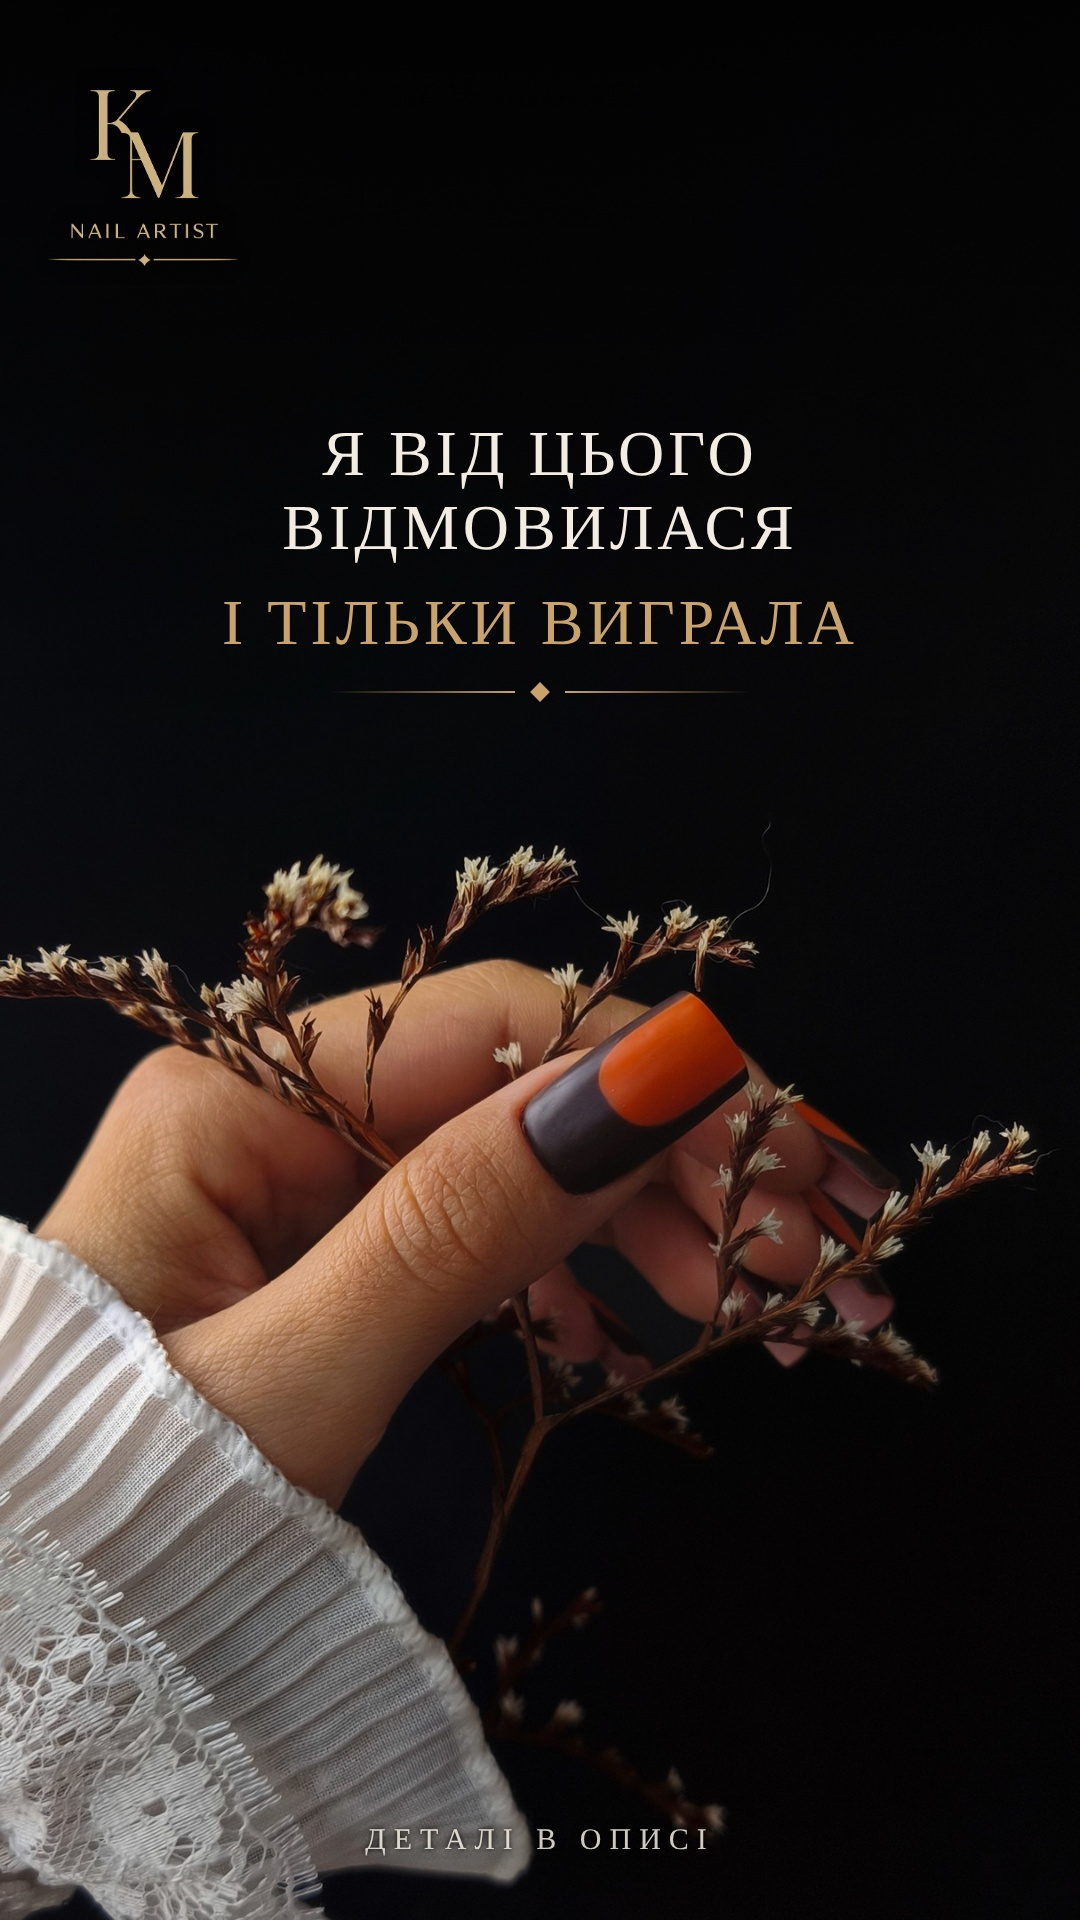
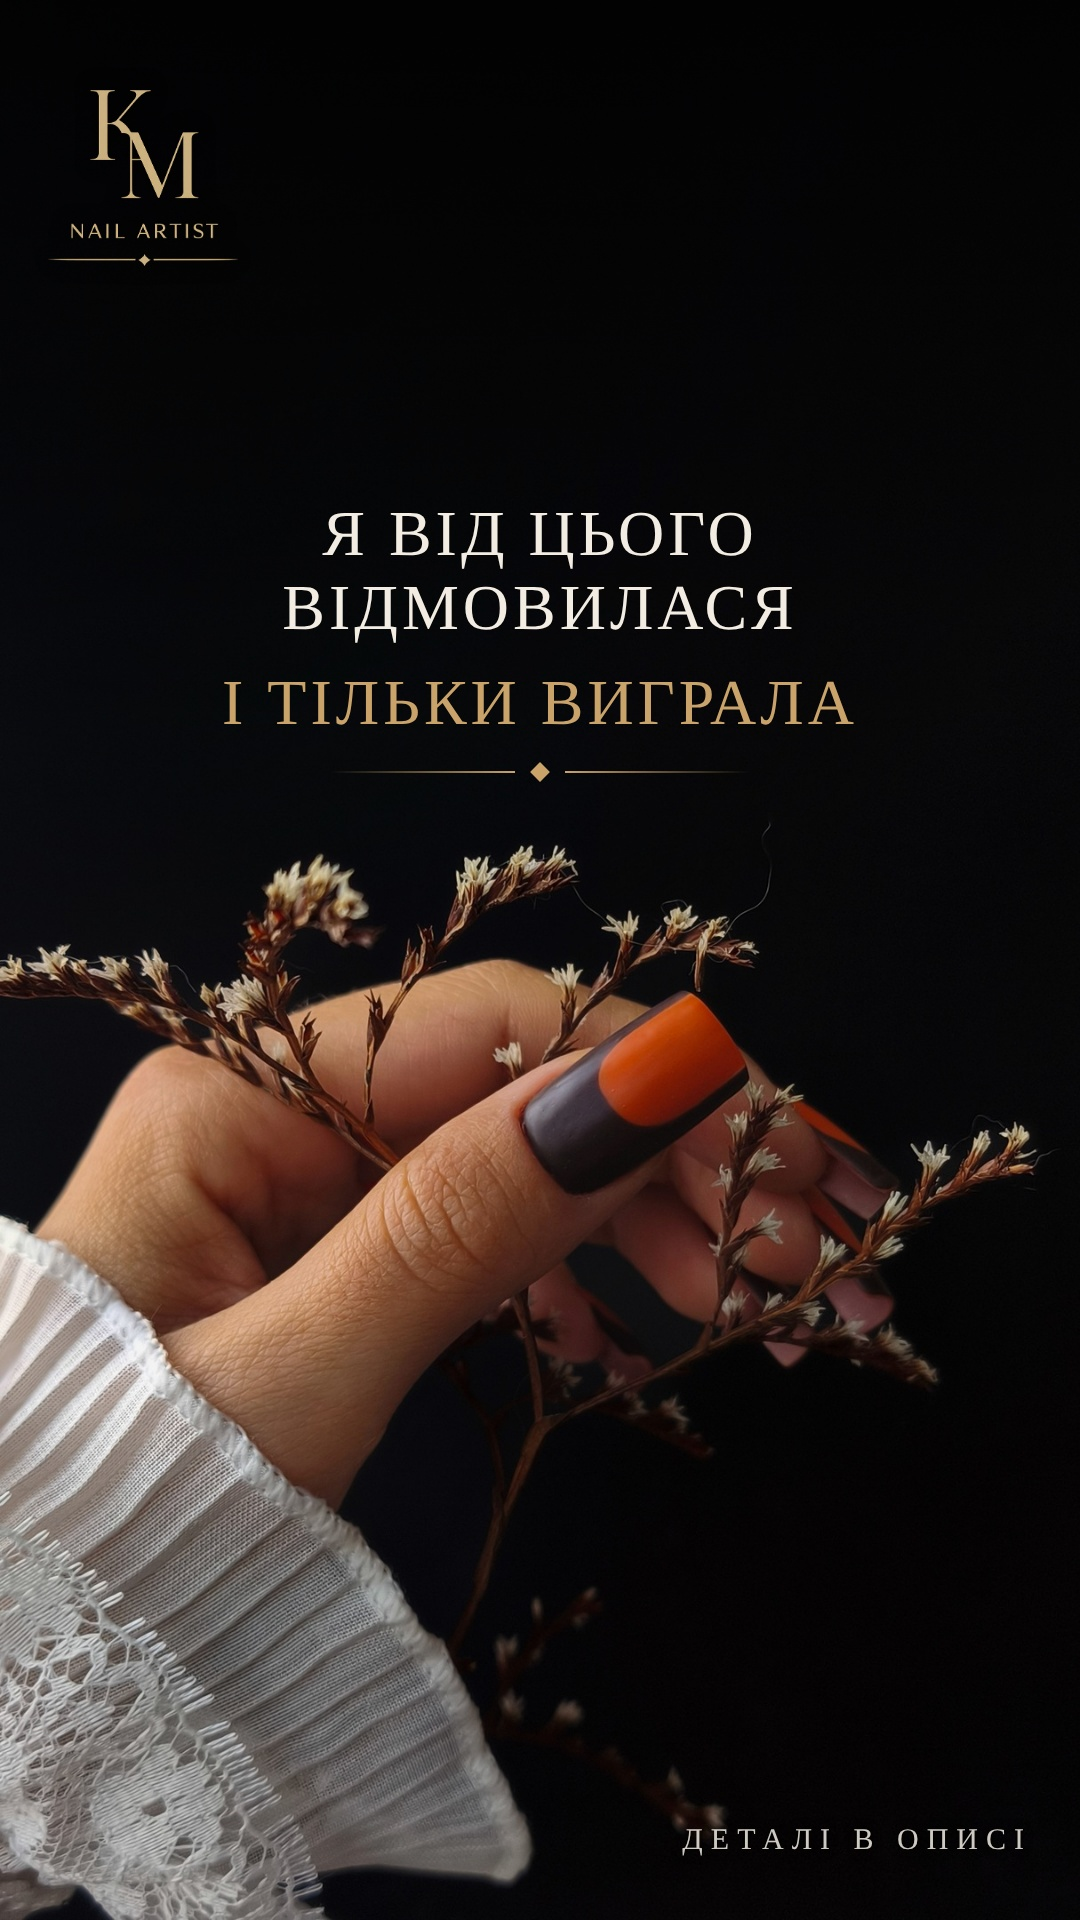
Cover: lower headline, caption hint at bottom right on the dark background
Claude-Session: https://claude.ai/code/session_01WfMzpwnevCUf1aJRkXxqCY

diff --git a/dark-green/src/Hands.tsx b/dark-green/src/Hands.tsx
@@ -177,7 +177,7 @@ export const BranchCover: React.FC = () => {
         src={staticFile("photos/7-branch.jpg")}
         style={{ width: "100%", height: "100%", objectFit: "cover" }}
       />
-      <Headline still top={420} />
+      <Headline still top={500} />
       <AbsoluteFill
         style={{ alignItems: "flex-start", paddingTop: 90, paddingLeft: 48 }}
       >
@@ -192,8 +192,9 @@ export const BranchCover: React.FC = () => {
       <AbsoluteFill
         style={{
           justifyContent: "flex-end",
-          alignItems: "center",
+          alignItems: "flex-end",
           paddingBottom: 60,
+          paddingRight: 48,
         }}
       >
         <div
